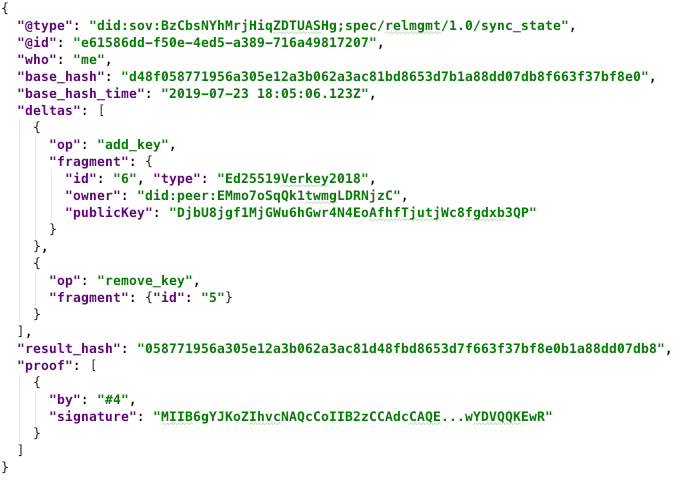
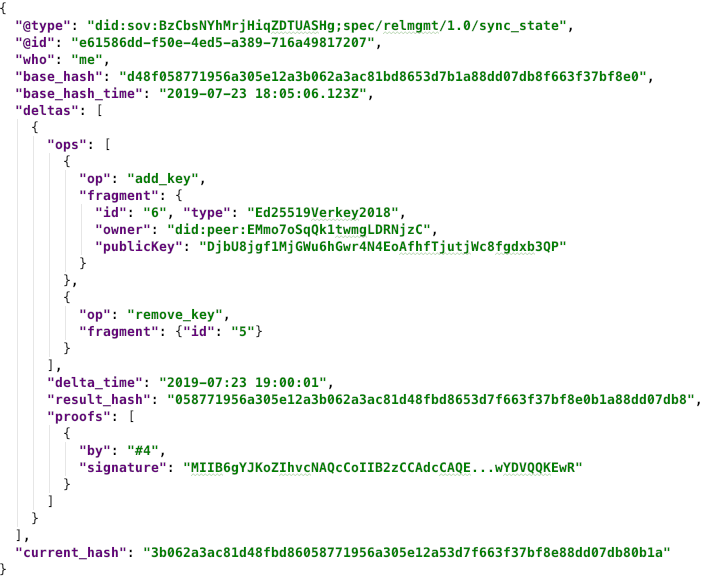
deltas consists of multiple signed delta objs

diff --git a/text/rel-mgmt-protocol/README.md b/text/rel-mgmt-protocol/README.md
@@ -164,8 +164,6 @@ What this says is:
 keys, remove keys from the authentication section, and remove any authorization
 from any key or group of keys.
 
-* Keys #2-#5 can rotate themselves (`"do":"update_key"`).
-
 * Adding authorizations to a key can be done in either (`"let":{"or"...`) of the following ways:
   * Key #1 and one other key can approve the change.
   * Any three (`"m_of_n":{"m":3...`) of keys #2-#5 can approve the change.
@@ -274,20 +272,29 @@ The properties in this message include:
   Alice and Bob's ecosystem may have different opinions about an appropriate
   timestamp for the selected base hash. Like timestamps in email headers, it merely
   provides a rough approximation of timeframe.
-* `deltas`: Gives an ordered list of operations that should be applied to the
-  DID Doc, beginning at the specified state. Each operation has an `op` code
-  such as "add_key", and a `fragment` that provides the added data, or the key
-  for removed data, or the key + new value for modified data.
-* `result_hash`: A hash of the state that is expected when the deltas are
-  applied. This is a like a checksum, verifying that both parties agree on the
-  outcome.
-* `proof`: A signature over `result_hash` that shows that the change is properly
-  authorized. In this example, the key referenced by `#4` is apparently authorized
-  to add and remove keys, so key 4 signs the result hash.
+* `deltas`: Gives a list of deltas that should be applied to the
+  DID Doc, beginning at the specified state.
+  
+  Each delta is a JSON object with properties `ops`, `delta_time`, `result_hash`,
+  and `proofs`:
+  
+    * `ops` is an ordered list of operations, `ops`. Each operation
+      is a JSON object that has an `op` code such as "add_key", and a `fragment`
+      that provides the added data, or the key for removed data, or the key + new
+      value for modified data.
+    * `delta_time` tells when the delta was proposed.
+    * `result_hash` is like a checksum; it verifies that both parties agree on the
+      resulting state when the delta is applied.
+    * `proofs` is an array that contains one
+      or more signatures over `result_hash` that shows that the change is properly
+      authorized. In this example, the key referenced by `#4` is apparently authorized
+      to add and remove keys, so key 4 signs the result hash.
+* `current_hash`: A hash of the state that is known to the sender, having applied
+  all the deltas. 
 
 When this message is received, the following processing happens:
 
-* The `base_hash`, `deltas`, `result_hash`, and `proof` properties are checked for
+* The `base_hash`, `deltas`, `result_hash`, and `proofs` properties are checked for
 consistency. If any errors are detected, a [`problem_report` message](
 https://github.com/hyperledger/indy-hipe/blob/9bc98bb3/text/error-reporting/README.md) 
 is returned, using [message threading](
